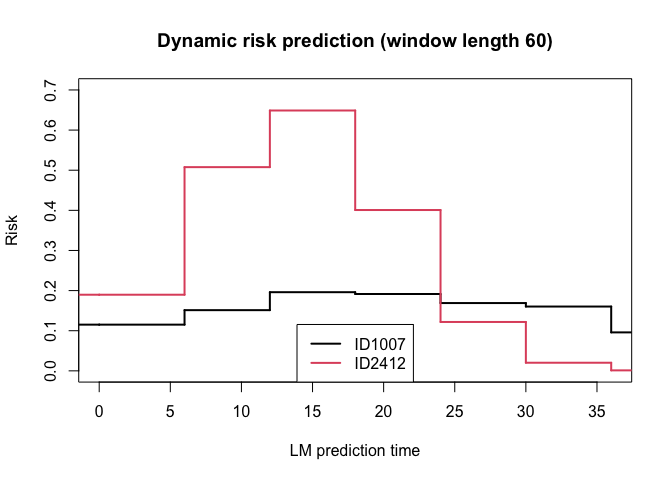
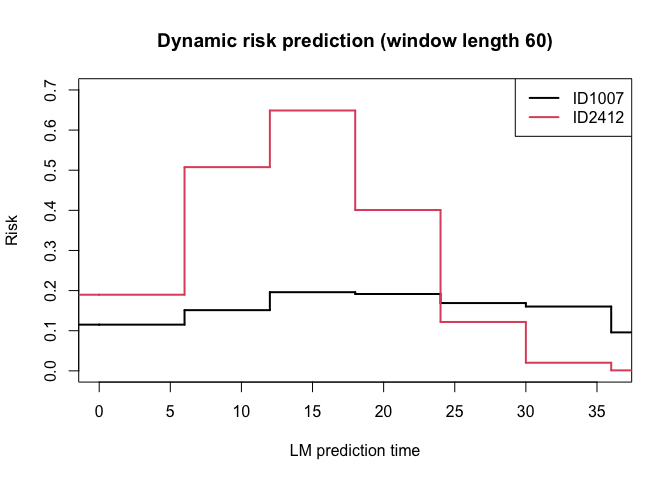
Update readme

diff --git a/README.md b/README.md
@@ -77,8 +77,31 @@ You can install the development version of `dynamicLM` from
 ``` r
 # install.packages("devtools")
 devtools::install_github("thehanlab/dynamicLM", ref = "proposed-updates")
-#> Skipping install of 'dynamicLM' from a github remote, the SHA1 (f6c669fb) has not changed since last install.
-#>   Use `force = TRUE` to force installation
+#> Downloading GitHub repo thehanlab/dynamicLM@proposed-updates
+#> pillar       (1.8.1      -> 1.9.0     ) [CRAN]
+#> vctrs        (0.6.0      -> 0.6.1     ) [CRAN]
+#> tibble       (3.2.0      -> 3.2.1     ) [CRAN]
+#> gtable       (0.3.2      -> 0.3.3     ) [CRAN]
+#> riskRegre... (2022.11.28 -> 2023.03.22) [CRAN]
+#> Installing 5 packages: pillar, vctrs, tibble, gtable, riskRegression
+#> 
+#>   There are binary versions available but the source versions are later:
+#>        binary source needs_compilation
+#> pillar  1.8.1  1.9.0             FALSE
+#> vctrs   0.5.2  0.6.1              TRUE
+#> 
+#> 
+#> The downloaded binary packages are in
+#>  /var/folders/r0/ckqbvqg52r53ct7wxr5yz50h0000gn/T//Rtmpt1twYc/downloaded_packages
+#> installing the source packages 'pillar', 'vctrs'
+#>      checking for file ‘/private/var/folders/r0/ckqbvqg52r53ct7wxr5yz50h0000gn/T/Rtmpt1twYc/remotes17ae12928e967/thehanlab-dynamicLM-83271d1/DESCRIPTION’ ...  ✔  checking for file ‘/private/var/folders/r0/ckqbvqg52r53ct7wxr5yz50h0000gn/T/Rtmpt1twYc/remotes17ae12928e967/thehanlab-dynamicLM-83271d1/DESCRIPTION’
+#>   ─  preparing ‘dynamicLM’:
+#>    checking DESCRIPTION meta-information ...  ✔  checking DESCRIPTION meta-information
+#>   ─  checking for LF line-endings in source and make files and shell scripts
+#>   ─  checking for empty or unneeded directories
+#>   ─  building ‘dynamicLM_0.3.0.tar.gz’
+#>      
+#> 
 ```
 
 Requirements for the package can be found in the description file.
@@ -114,7 +137,7 @@ library(dynamicLM)
 #> Loading required package: survival
 #> Loading required package: prodlim
 #> Loading required package: riskRegression
-#> riskRegression version 2022.11.28
+#> riskRegression version 2023.03.22
 #> 
 #> Attaching package: 'dynamicLM'
 #> The following object is masked from 'package:riskRegression':
@@ -160,9 +183,9 @@ w <- 60                    # risk prediction window (risk within time w)
 lms <- seq(0,36,by=6)      # landmarks on which to build the model
 
 # Covariate-landmark time interactions
-func_covars <- list( function(t) t, function(t) t^2)
+func_covars <- list(function(t) t, function(t) t^2)
 # let hazard depend on landmark time
-func_lms <- list( function(t) t, function(t) t^2)
+func_lms <- list(function(t) t, function(t) t^2)
 # Choose variables that will have time interaction
 pred_covars <- c("age", "male", "stage", "bmi", "treatment") 
 ```
@@ -274,6 +297,9 @@ print(data[data$ID == "ID1029",])
 #> 751          24         576   24  576
 #> 786          30         900   30  900
 #> 788          36        1296   36 1296
+
+# E.g., of additional arguments to print
+# print(lmdata, verbose = TRUE)
 ```
 
 ## 3.3 Fit the super model
@@ -294,16 +320,16 @@ print(all_covs)
 #> [16] "LM_1"        "LM_2"
 ```
 
-It is then easy to fit a landmark supermodel using `dynls()`. A formula,
-super dataset and method need to be provided. If the super dataset is
-not of class `LMdataframe` (i.e., is a self-created R dataframe), then
-additional parameters must be specified. In this case, see the details
-section of the documentation of `add_interactions()` for information on
-how the landmark interaction terms must be named.
+It is then easy to fit a landmark supermodel using `dynamic_lm()`. A
+formula, super dataset and method need to be provided. If the super
+dataset is not of class `LMdataframe` (i.e., is a self-created R
+dataframe), then additional parameters must be specified. In this case,
+see the details section of the documentation of `add_interactions()` for
+information on how the landmark interaction terms must be named.
 
 ``` r
 formula <- "Hist(Time, event, LM) ~ age + male + stage + bmi + treatment + age_1 + age_2 + male_1 + male_2 + stage_1 + stage_2 + bmi_1 + bmi_2 + treatment_1 + treatment_2 + LM_1 + LM_2 + cluster(ID)"
-supermodel <- dynls(as.formula(formula), lmdata, "CSC") 
+supermodel <- dynamic_lm(as.formula(formula), lmdata, "CSC") 
 #> Warning in agreg.fit(X, Y, istrat, offset, init, control, weights = weights, :
 #> Loglik converged before variable 8,9 ; beta may be infinite.
 print(supermodel)
@@ -356,38 +382,22 @@ print(supermodel)
 #> LM_2         2.226e-03  1.002e+00  4.466e-03  3.534e-03  0.630 0.528756
 #> 
 #> Likelihood ratio test=75.45  on 17 df, p=2.438e-09
-#> n= 2787, number of events= 1120 
-#> 
-#> 
-#> $func_covars
-#> $func_covars$[[1]]
-#> function(t) t
-#> <bytecode: 0x1267be180>
-#> 
-#> $func_covars$[[2]]
-#> function(t) t^2
-#> <bytecode: 0x117ff8510>
-#> 
-#> $func_lms
-#> $func_lms$[[1]]
-#> function(t) t
-#> 
-#> $func_lms$[[2]]
-#> function(t) t^2
-#> 
-#> $w
-#> [1] 60
-#> 
-#> $end_time
-#> [1] 36
-#> 
-#> $type
-#> [1] "CSC"
+#> n= 2787, number of events= 1120
+```
+
+There are additional ways of printing/accessing the model:
+
+``` r
+# E.g., of additional arguments to print
+print(supermodel, cause = 1, verbose = TRUE)
+
+# Coefficients can easily be accessed via
+coef(supermodel)
 ```
 
 Dynamic hazard ratios can be plotted, either log hazard ratio or hazard
-ratio using the argument `logHR`. Only certain plots can also be
-provided using the `covars` argument.
+ratio using the argument `logHR`. Specifying the `covars` arguments
+allows for a subset of dynamic hazard ratios to be plotted.
 
 ``` r
 par(mfrow = c(2,3))
@@ -398,7 +408,7 @@ plot(supermodel)
 
 ``` r
 # To create only two plots:
-plot(supermodel, covars = c("age","male"))
+plot(supermodel, covars = c("age", "male"))
 ```
 
 ## 3.4 Obtain predictions
@@ -411,6 +421,19 @@ landmarks they are still alive.
 
 ``` r
 p1 <- predict(supermodel)
+print(p1)
+#> $preds
+#>   LM       risk
+#> 1  0 0.11514265
+#> 2  0 0.04641678
+#> 3  0 0.04639277
+#> 4  0 0.11005431
+#> 5  0 0.04485027
+#> 6  0 0.04585672
+#>  [ omitted 2782 rows ]
+
+# E.g., of additional arguments to print
+# print(p1, verbose = TRUE)
 ```
 
 ### 3.4.2 For new data
@@ -425,9 +448,9 @@ using an entry from the very original data frame.
 
 ``` r
 # Prediction time
-landmark_times <- c(0,0)
+landmark_times <- c(0, 0)
 # Individuals with covariate values at 0
-individuals <- relapse[1:2,]
+individuals <- relapse[1:2, ]
 individuals$age <- individuals$age.at.time.0
 print(individuals)
 #>       ID       Time event age.at.time.0 male stage  bmi treatment T_txgiven
@@ -456,7 +479,7 @@ between models. This list can be of supermodels or prediction objects
 (created by calling `predict()`).
 
 ``` r
-par(mfrow=c(2,3), pty="s")
+par(mfrow = c(2, 3), pty = "s")
 outlist <- calplot(list("LM supermodel" = p1), 
                     times = c(0,6,12,18,24,30),# landmarks at which to provide calibration plots
                     method = "quantile", q=10, # method for calibration plot
@@ -480,7 +503,7 @@ Brier score (BSt).
 
 ``` r
 scores <- Score(list("LM supermodel" = p1),
-                     times = c(6,12,18,24)) # landmarks at which to assess
+                     times = c(6, 12, 18, 24)) # landmarks at which to assess
 scores
 #> 
 #> Metric: Time-dependent AUC (window 60)
@@ -516,17 +539,17 @@ These results can also be plot with point wise confidence intervals.
 Setting `se = FALSE` in plot excludes the intervals.
 
 ``` r
-par(mfrow = c(1,2))
+par(mfrow = c(1, 2))
 plot(scores)
 ```
 
-<img src="man/figures/README-unnamed-chunk-19-1.png" width="100%" />
+<img src="man/figures/README-unnamed-chunk-20-1.png" width="100%" />
 
 **Bootstrapping** can be performed by calling `calplot()` or `Score()`
 and setting the arguments `split.method = "bootcv"` and `B = 10` (or
 however many bootstrap replications are desired). Note that the argument
 `x = TRUE` must be specified when fitting the model (i.e., when calling
-`dynls()`).
+`dynamic_lm()`).
 
 ``` r
 # Remember to fit the supermodel with argument 'x = TRUE'
@@ -549,8 +572,8 @@ consider two individuals of similar age, bmi, and treatment status at
 baseline, but of different gender.
 
 ``` r
-idx <- relapse$ID %in% c("ID2412","ID1007")
-relapse[idx,]
+idx <- relapse$ID %in% c("ID2412", "ID1007")
+relapse[idx, ]
 #>         ID     Time event age.at.time.0 male stage  bmi treatment T_txgiven
 #> 1   ID1007 62.68493     0      60.25936    0     1 25.9         0      0.00
 #> 442 ID2412 43.35342     0      60.09132    1     0 24.1         0      0.00
@@ -564,12 +587,12 @@ data can be used too if there are no complex variables involved.*
 
 ``` r
 # Prediction time points 
-x <- seq(0,36,by=6)
+x <- seq(0, 36, by = 6)
 
 # Stack landmark datasets
-dat <- stack_data(relapse[idx,], outcome, x, w, covars, format="long", 
+dat <- stack_data(relapse[idx, ], outcome, x, w, covars, format = "long", 
                   id = "ID", rtime = "T_txgiven")$data
-dat$age <- dat$age.at.time.0 + dat$LM/12 # age is in years and LM is in months
+dat$age <- dat$age.at.time.0 + dat$LM / 12 # age is in years and LM is in months
 
 head(dat)
 #>          ID     Time event age.at.time.0 male stage  bmi treatment T_txgiven LM
@@ -589,14 +612,13 @@ head(dat)
 ```
 
 ``` r
-plotrisk(supermodel, dat, format = "long", lm_col = "LM", id_col = "ID", 
-           ylim = c(0, 0.7), x.legend = "bottom")
+plotrisk(supermodel, dat, format = "long", ylim = c(0, 0.7), x.legend = "topright")
 ```
 
 <img src="man/figures/README-plotrisk-1.png" width="100%" />
 
-We can see that the male has a much higher and increasing 5-year risk of
+We can see that the male has a higher and increasing 5-year risk of
 recurrence that peaks around 1 year, and then rapidly decreases. This
-can be explained by the dynamic hazard rate of being male. In
-comparison, the 5-year risk of recurrent for the female remains
+can be explained by the dynamic hazard rate of being male (seen above).
+In comparison, the 5-year risk of recurrent for the female remains
 relatively constant.
